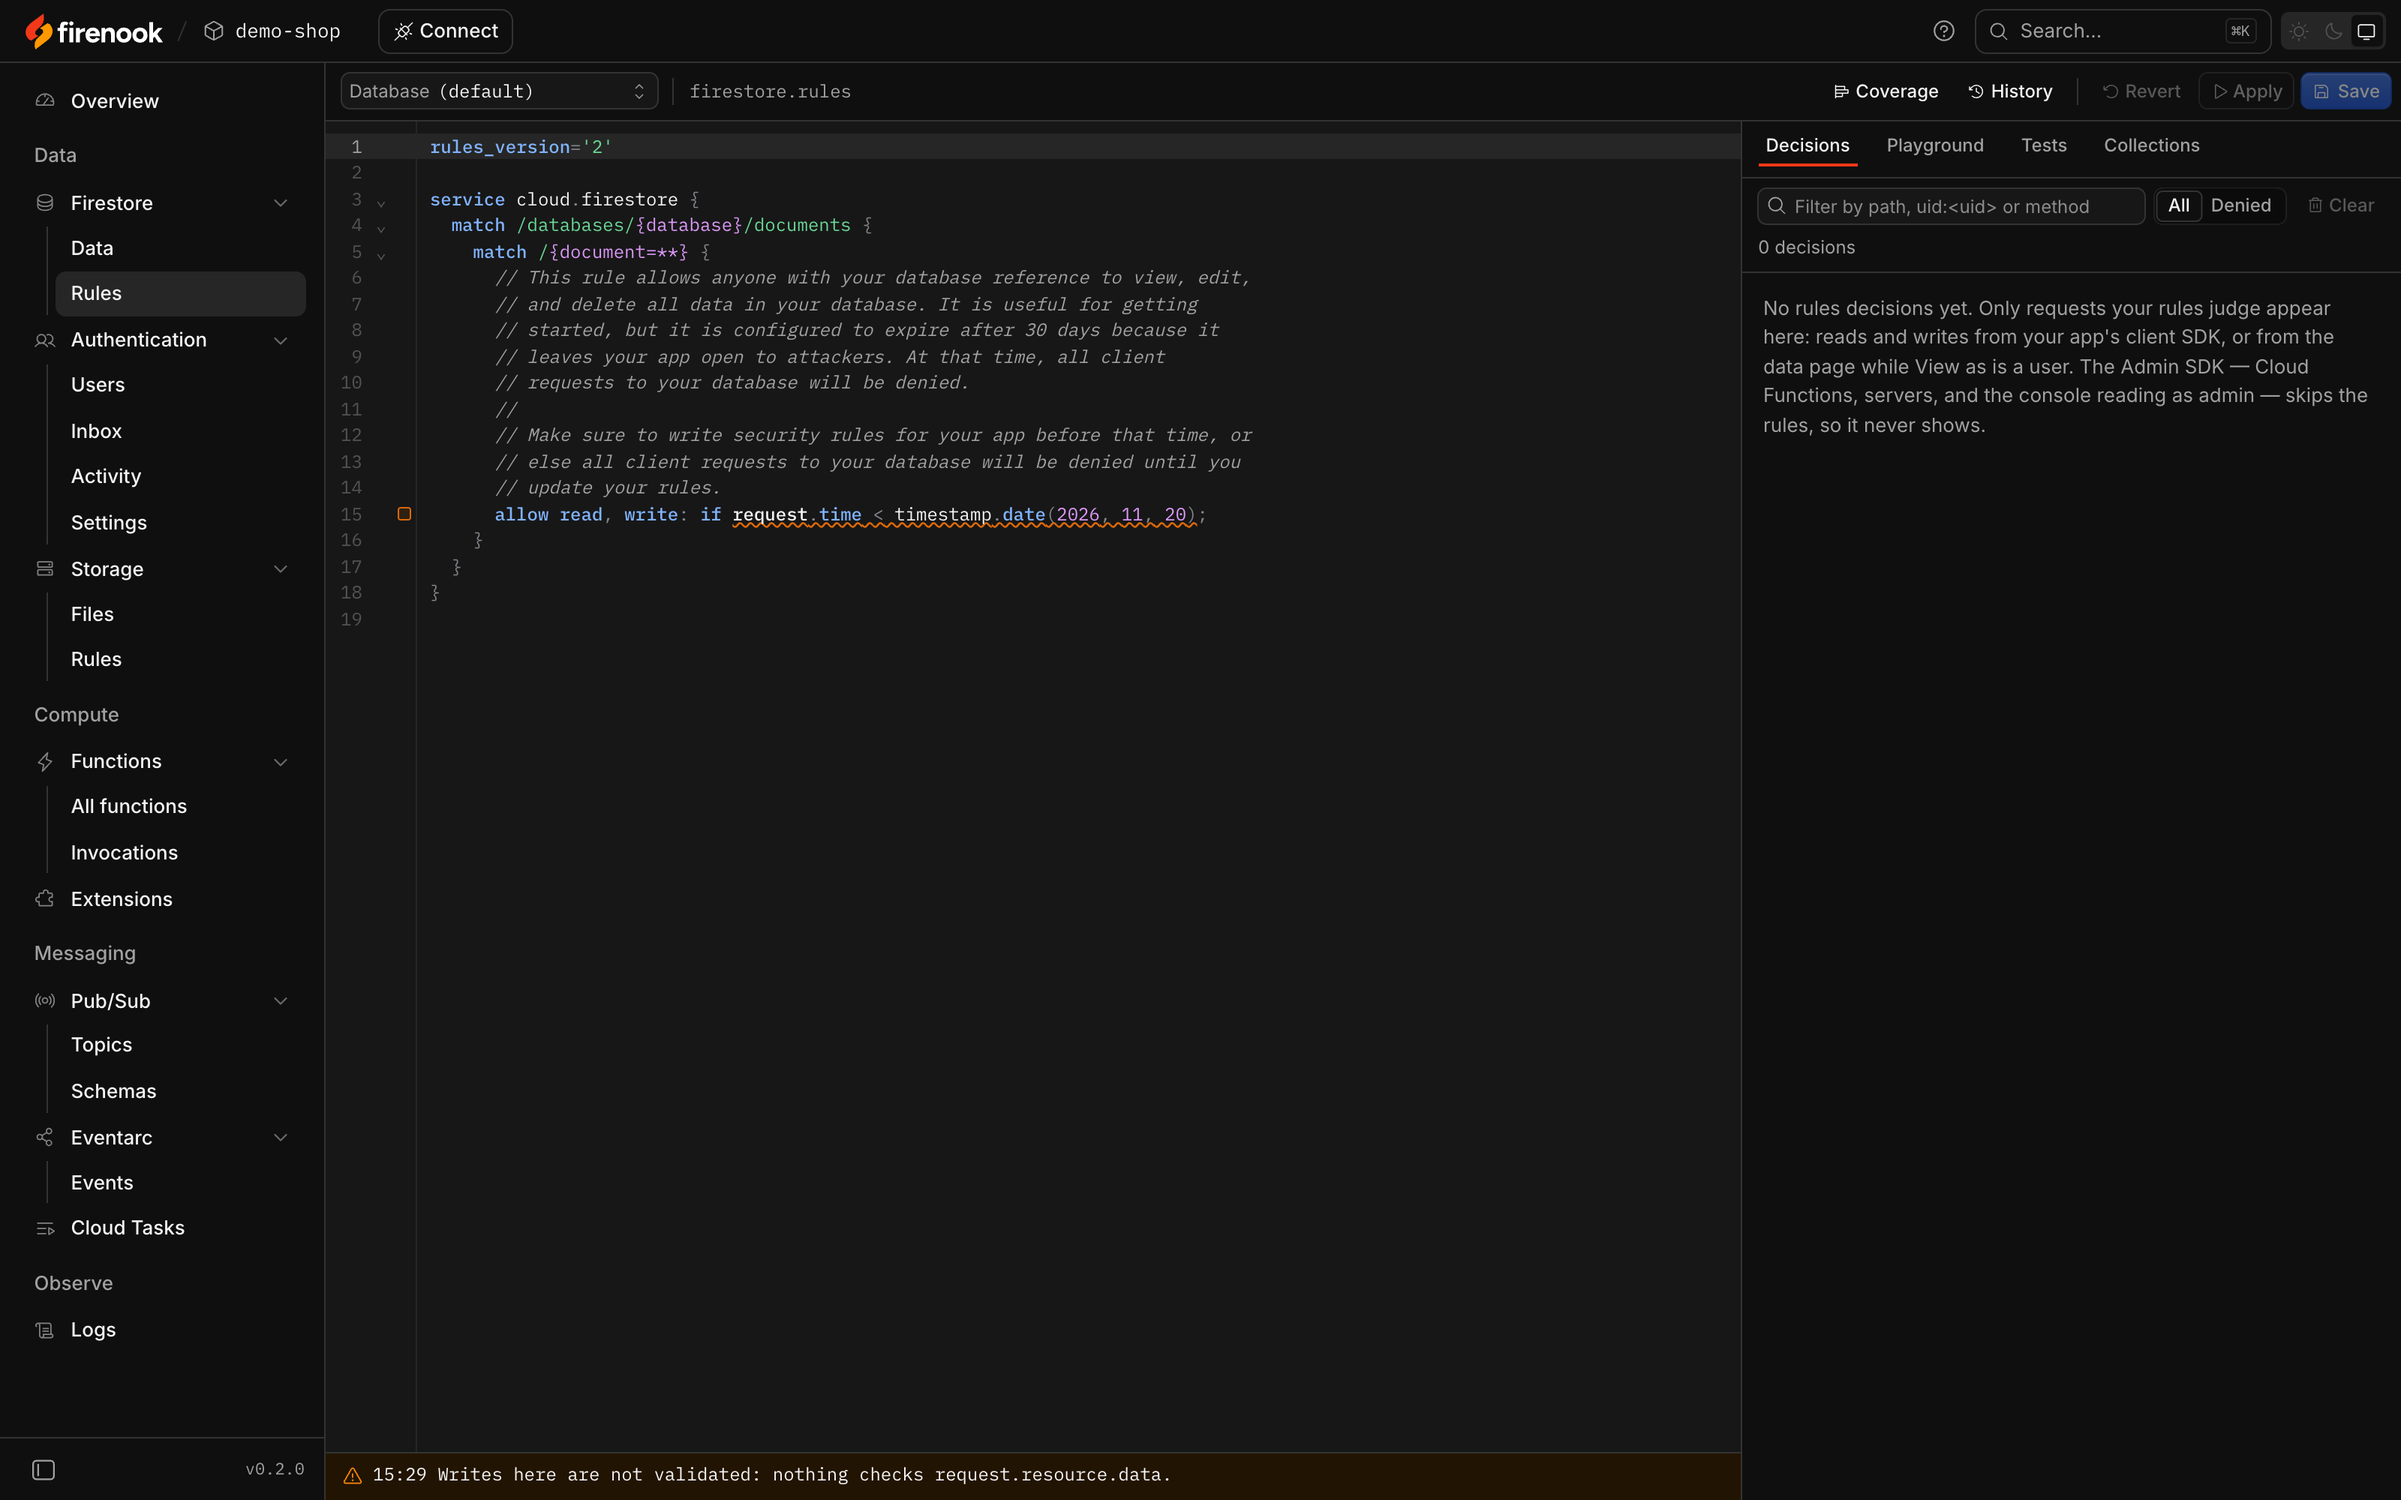
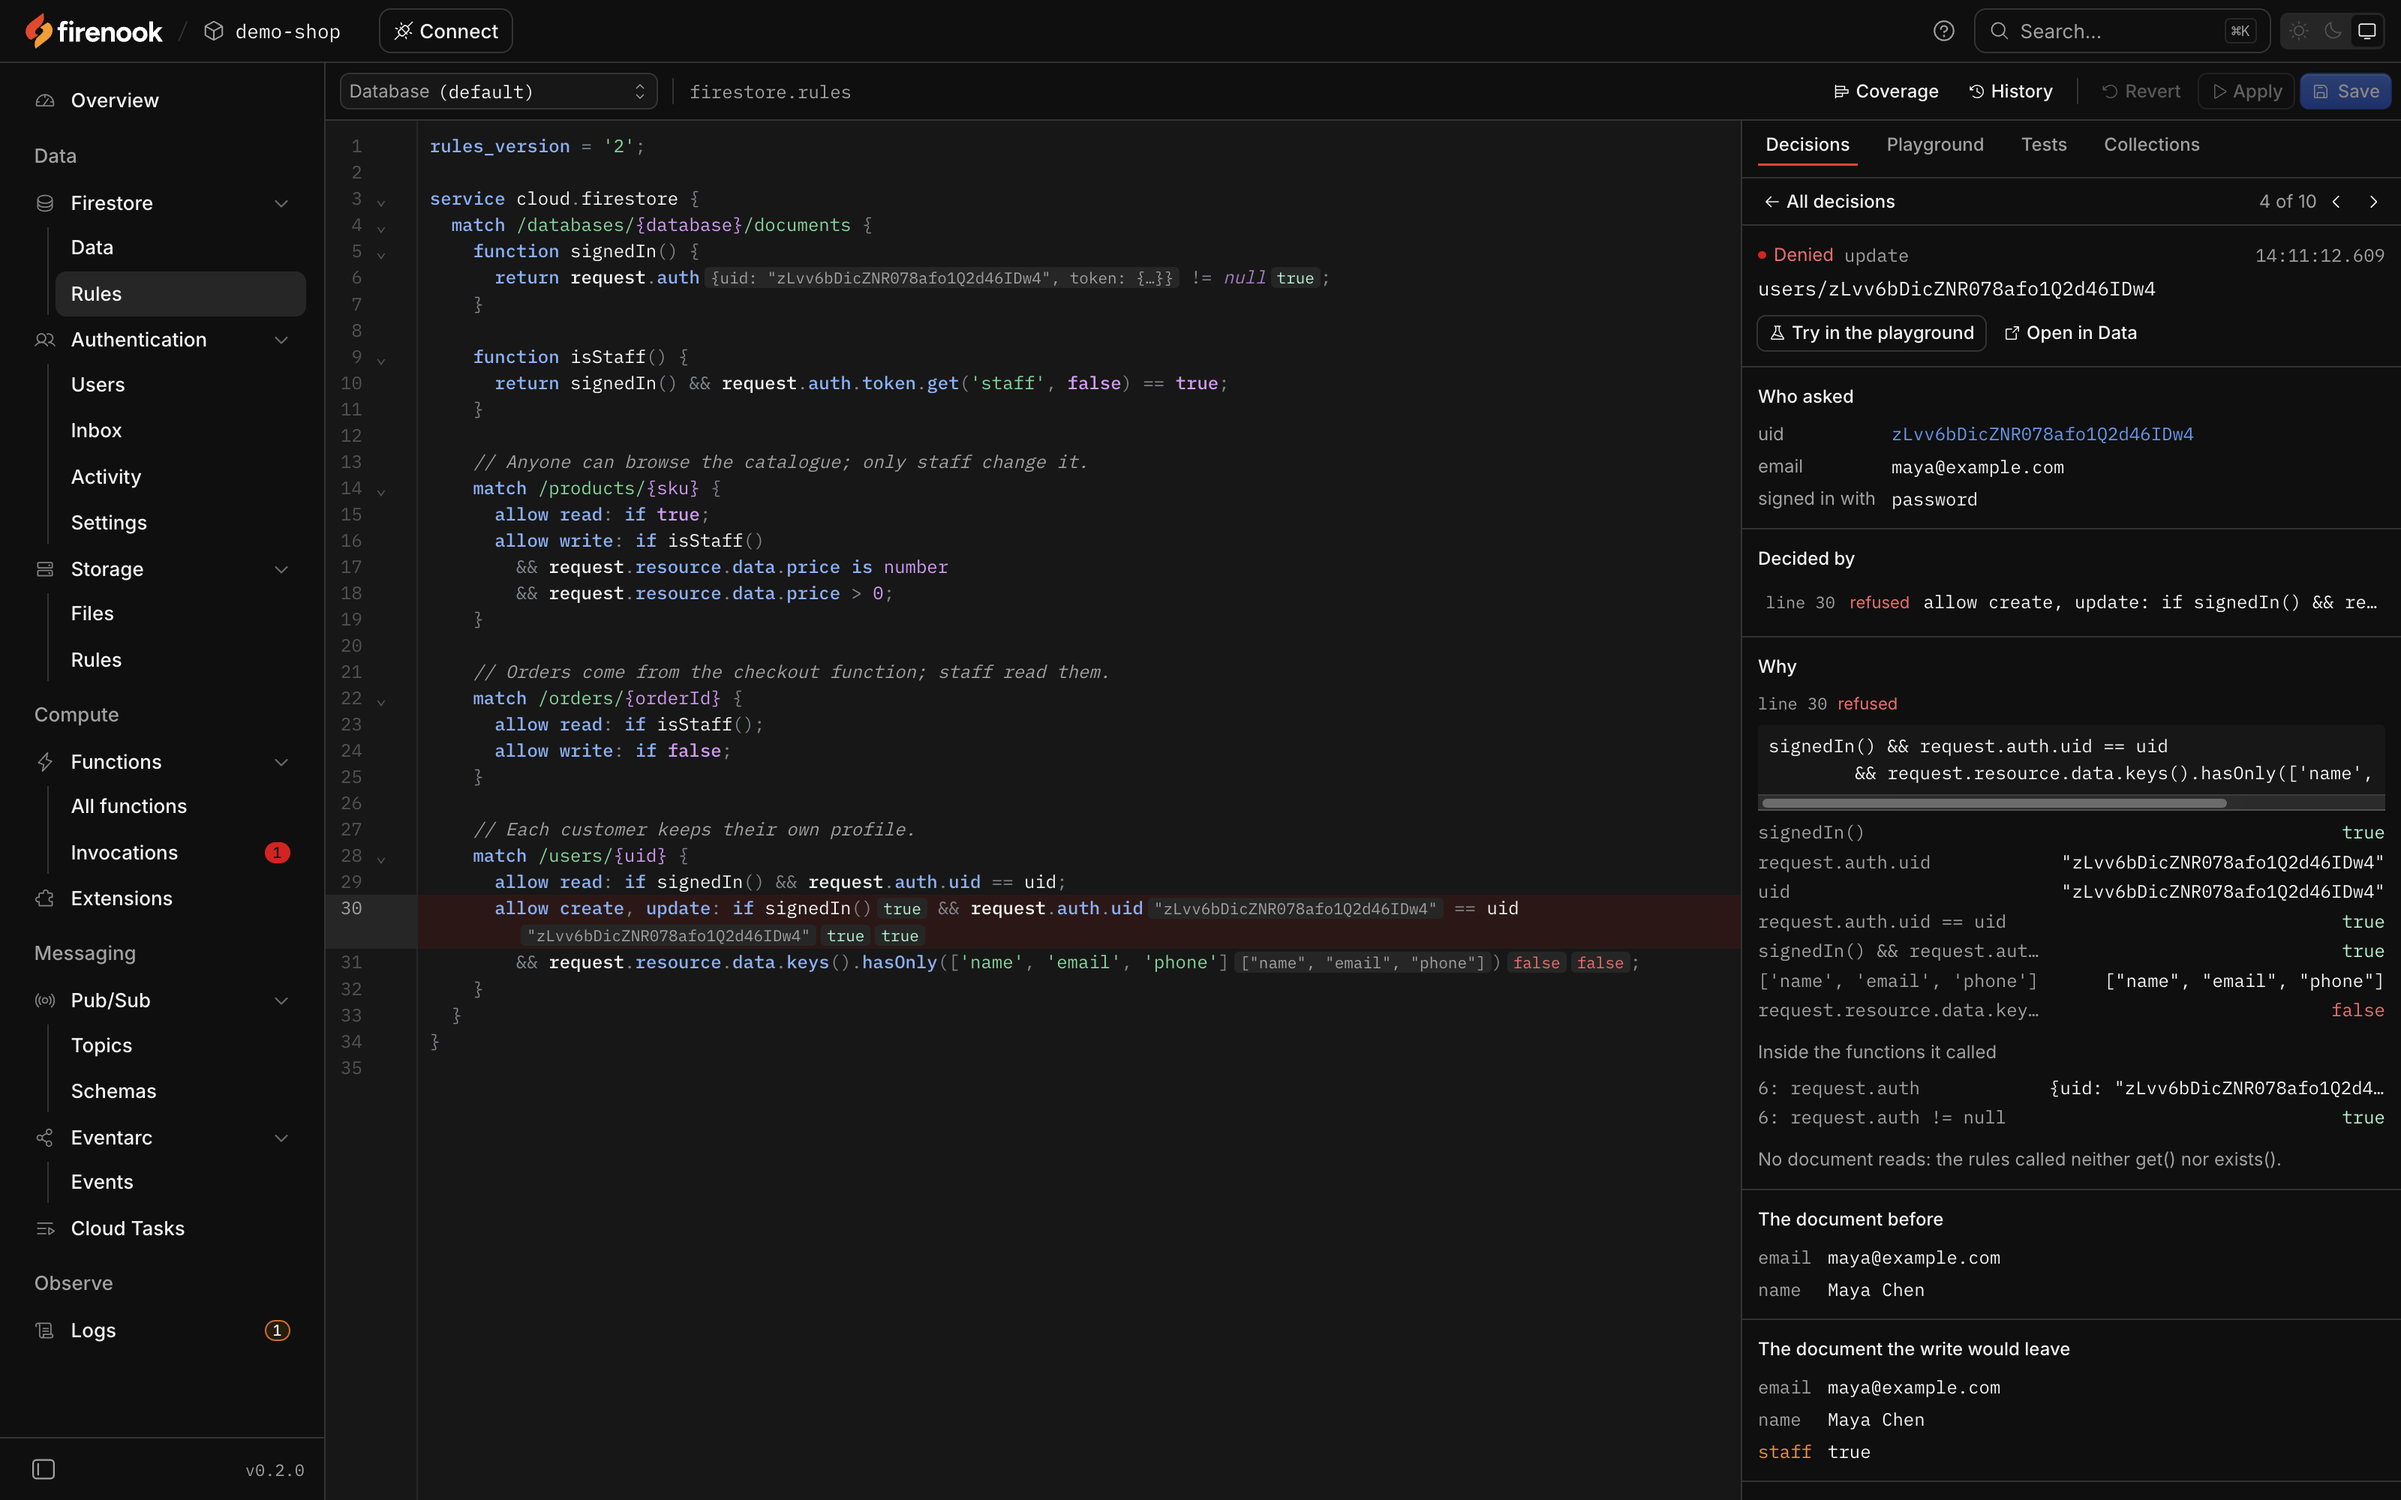
feat(console-page): show the rules deciding real requests
The Rules picture showed the default open rules and no decisions. The
demo shop now has rules a shop would write (a public catalogue, orders
for staff, each customer's own profile), and capture.mjs makes ten
requests from the shop's app for them to judge: a visitor, a customer
trying what she may not, and a member of staff. The picture opens the
customer's denied update, the one adding a staff field, with the line
that refused it. capture.mjs takes --demo=<dir> to run a copy of the
demo on its own ports, reading them from its firebase.json.

diff --git a/scripts/capture/README.md b/scripts/capture/README.md
@@ -1,7 +1,7 @@
 # The home page's demo run
 
 The orders, users, files and function calls on the home page, the agent's
-tool calls, the timed test run and the five console pictures all come from
+tool calls, the timed test run and the six console pictures below all come from
 one run of the demo project (`../terminal/demo-shop/`) on the published
 package. Capture them again for a new release so the page shows what people
 will see.
@@ -16,9 +16,14 @@ node capture.mjs --hold
 `capture.mjs` starts `firenook emulators:start` in the demo project and opens
 the shop: eight products with their pictures, twelve customers, twelve
 orders through the shop's `checkout` function, and a webhook without a
-signature, which fails. It writes through `firenook mcp` and the shop's own
-functions, then asks the MCP tools for what the page shows. Paths on the
-machine that ran it are cut to the project's own folder.
+signature, which fails. Then the shop's app makes ten Firestore requests
+that the rules judge: a visitor browses, Maya Chen keeps her profile and
+tries what she may not (another customer's profile, making herself staff,
+changing a price), and Amara Abara, given a `staff` claim, reads the orders
+and edits a product. Six are allowed and four denied. It writes through
+`firenook mcp`, the shop's own functions and the emulators' REST APIs, then
+asks the MCP tools for what the page shows. Paths on the machine that ran it
+are cut to the project's own folder.
 
 With `--hold` the suite stays up until the process gets SIGTERM, so the
 console can be photographed at <http://127.0.0.1:4000/console>: a 1600 × 1000
@@ -31,8 +36,16 @@ window at twice the density, dark theme, saved as `src/assets/console/`:
 | `auth-dark.png` | Authentication, Users, with Maya Chen open |
 | `firestore-dark.png` | Firestore, `orders`, a two-item order open, its items expanded |
 | `storage-dark.png` | Storage, `products/`, as a grid |
+| `rules-dark.png` | Firestore, Rules, Maya's denied update of her own profile open (the one adding `staff`) |
 
 Every picture must be the same size, so the console's tabs on the home page
 never change height. After SIGTERM the script stops the suite, times
 `firenook emulators:exec "node --test checkout.test.mjs"`, and writes
 `src/data/demo-run.json`. Without `--hold` it does the same without waiting.
+
+To keep the default ports free, run a copy of the demo with its own ports in
+`firebase.json` and in `checkout.test.mjs`, and write the run somewhere else:
+
+```sh
+node capture.mjs /tmp/demo-run.json --hold --demo=/tmp/demo-shop
+```
